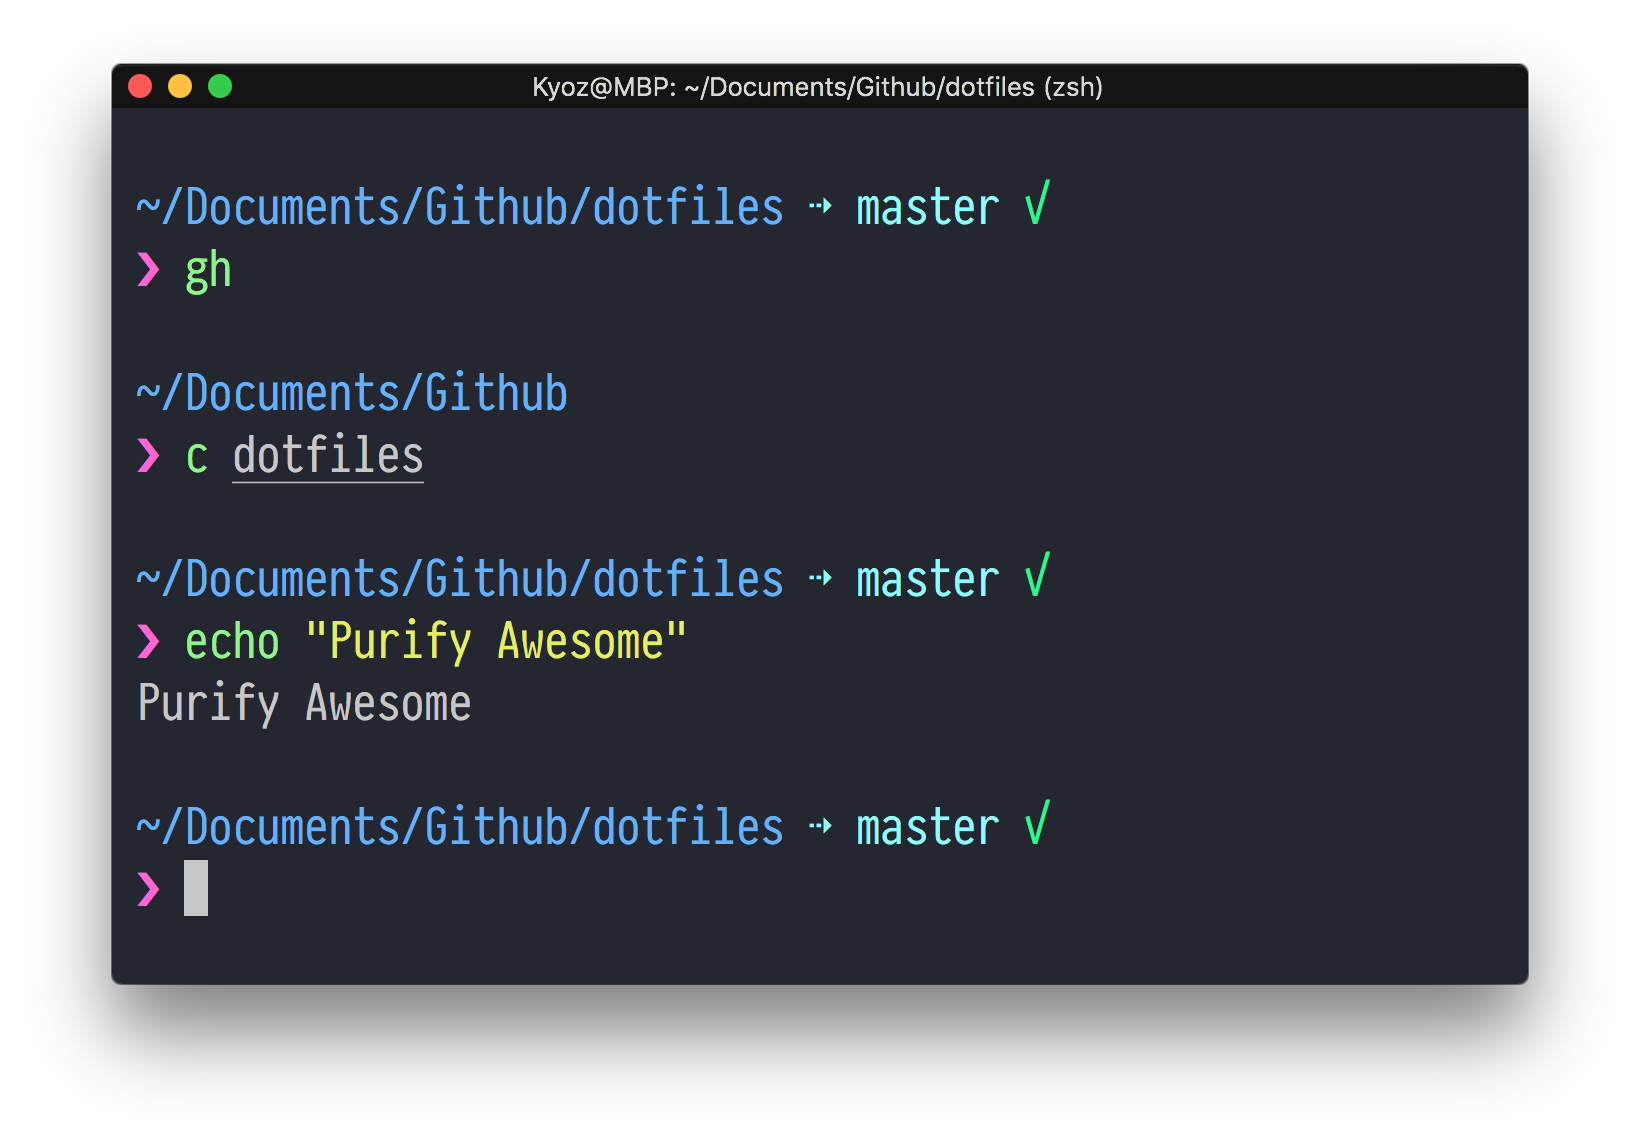
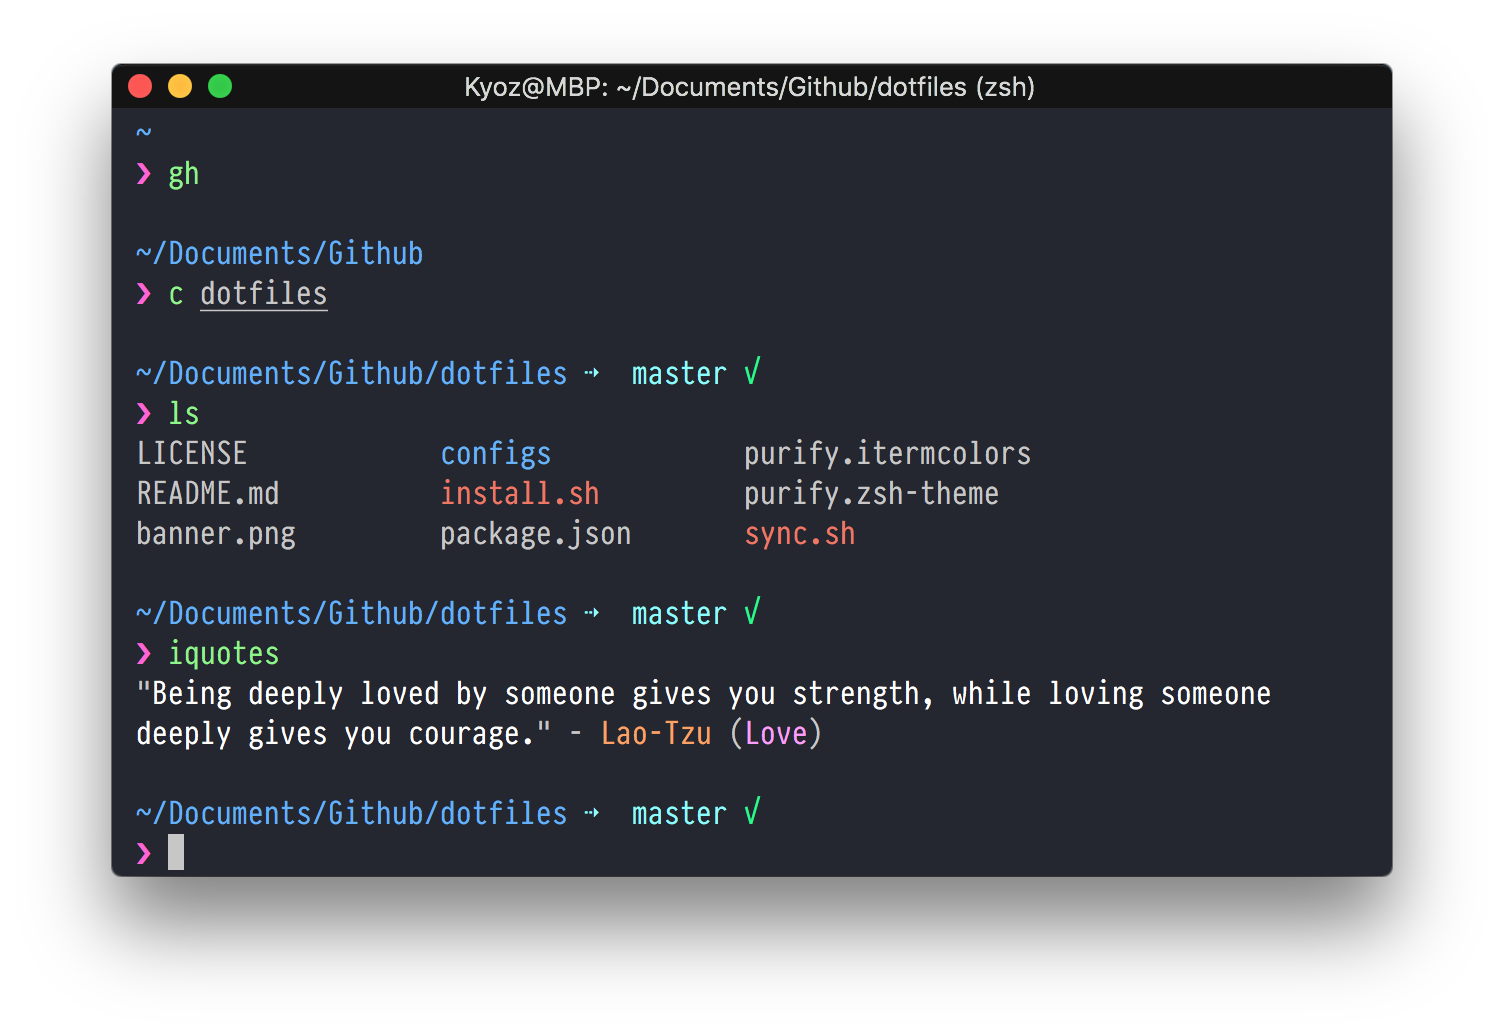
Update demos

diff --git a/README.md b/README.md
@@ -4,22 +4,28 @@
 
 ## Demo
 
-### Ubuntu + Hyper
+### 1. OSX + Hyper
+
+<p align="center">
+  <img src="demo/demo_osx_hyper.png" width="700px">
+</p>
+
+### 2. OSX + Iterm2
+
+<p align="center">
+  <img src="demo/demo_osx_iterm2.png" width="700px">
+</p>
+
+### 3. Ubuntu + Hyper
 
 <p align="center">
   <img src="demo/demo_ubuntu_hyper.png" width="600px">
 </p>
 
-### Ubuntu + Gnome Terminal
+### 4. Ubuntu + Gnome Terminal
 
 <p align="center">
   <img src="demo/demo_ubuntu_gnome.png" width="600px">
-</p>
-
-### OSX + Iterm2
-
-<p align="center">
-  <img src="demo/demo_osx_iterm2.png" width="600px">
 </p>
 
 ## Install
@@ -40,9 +46,17 @@ Restart terminal and enjoy.
 
 ### In the demo screenshot, i do use:
 
-* PragmataPro font
-* **Ubuntu**: Hyper with hyper-snazzy theme
-* **OSX**: Iterm2 with oh-my-zsh for ios
+* [Iosevka](https://github.com/be5invis/Iosevka) font (FREE)
+
+* **OSX**:
+
+  1. Hyper with [hyper-snazzy](https://github.com/sindresorhus/hyper-snazzy) theme
+  2. Iterm2 with oh-my-zsh
+
+* **Ubuntu**:
+
+  3. Hyper with [hyper-snazzy](https://github.com/sindresorhus/hyper-snazzy) theme
+  4. Gnome Terminal
 
 You can get bash, git & oh-my-zsh configs, aliases... in [my dotfiles](https://github.com/banminkyoz/dotfiles)
 
